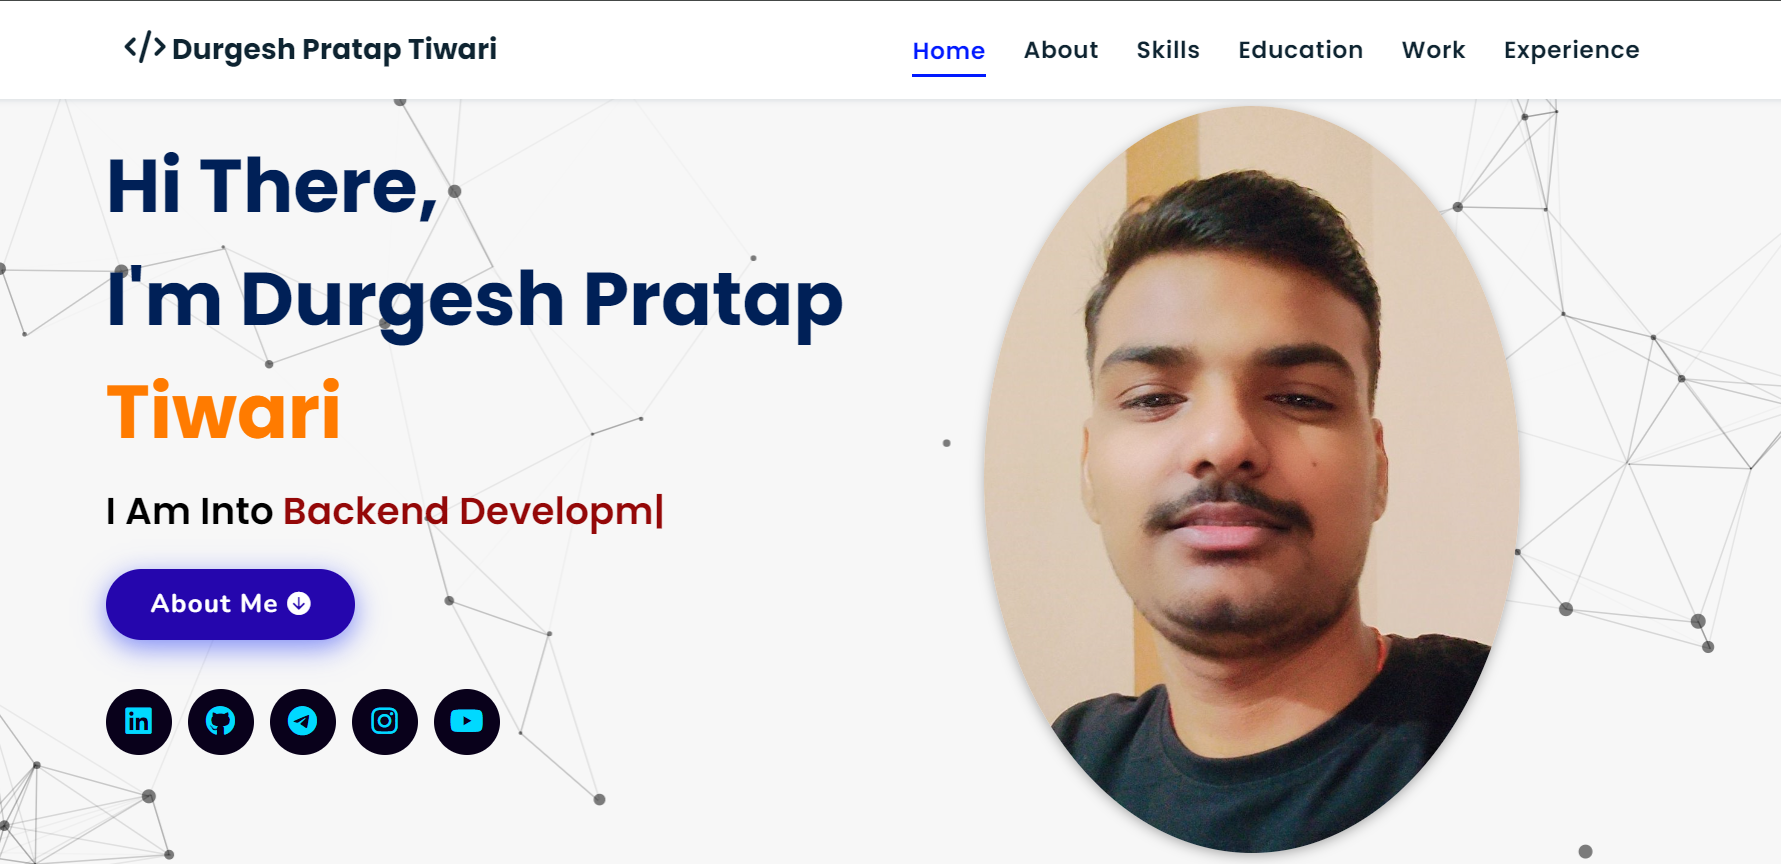
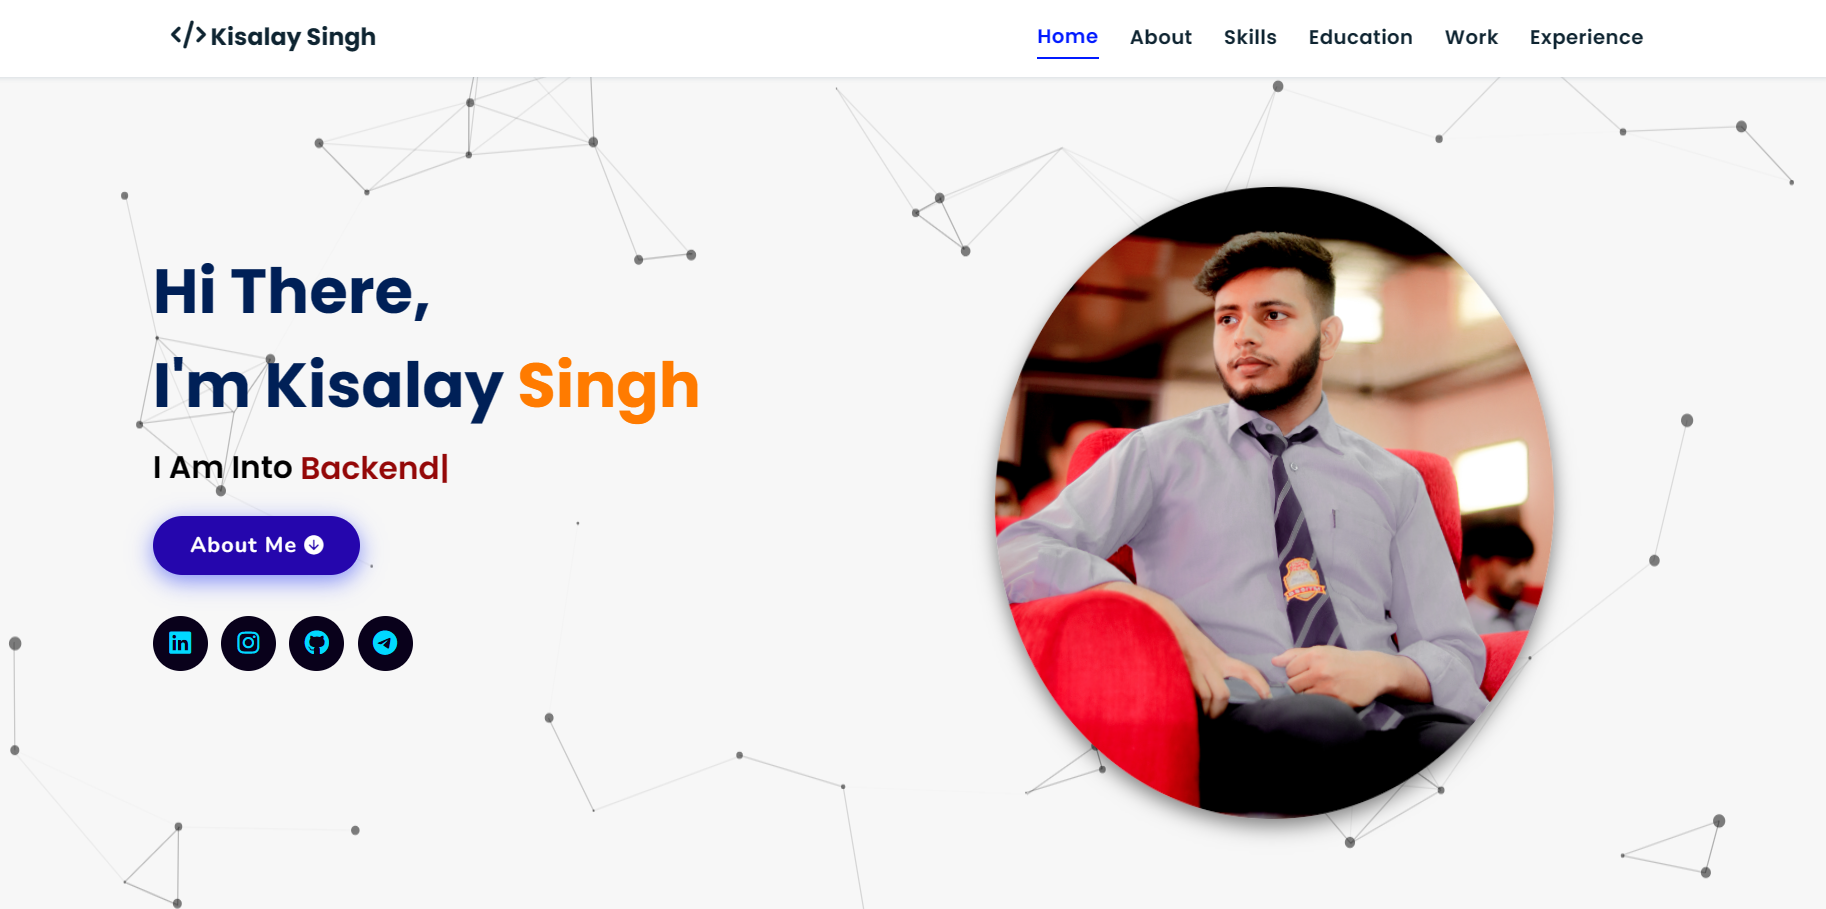
complete all sections

diff --git a/index.html b/index.html
@@ -4,8 +4,8 @@
   <meta charset="UTF-8">
   <meta http-equiv="X-UA-Compatible" content="IE=edge">
   <meta name="viewport" content="width=device-width, initial-scale=1.0">
-  <meta name="keywords" content="Durgesh, portfolio, Durgesh, full stack dev, personal portfolio lifecodes, portfolio design, portfolio website, personal portfolio" />
-  <meta name="description" content="Welcome to Durgseh's Portfolio. Full-Stack Web Developer " />
+  <meta name="keywords" content="Kisalay, portfolio, Kisalay, full stack dev, personal portfolio lifecodes, portfolio design, portfolio website, personal portfolio" />
+  <meta name="description" content="Welcome to Kisalay's Portfolio. Full-Stack Web Developer " />
   <!-- Custom CSS -->
   <link rel="stylesheet" href="./style.css">
   <!-- Font Awesome -->
@@ -16,7 +16,7 @@
 </head>
 <body>
   <header>
-    <a href="/" class="logo"><i class="fa-solid fa-code"></i> Durgesh Pratap Tiwari</a>
+    <a href="/" class="logo"><i class="fa-solid fa-code"></i> Kisalay Singh</a>
 
     <div id="menu" class="fas fa-bars"></div>
     <nav class="navbar">
@@ -37,22 +37,22 @@
   <div id="particles-js"></div>
 
   <div class="content">
-  <h2>Hi There,<br/> I'm Durgesh Pratap <span>Tiwari</span></h2>
+  <h2>Hi There,<br/> I'm Kisalay <span>Singh</span></h2>
   <p>i am into <span class="typing-text"></span></p>
   <a href="#about" class="btn"><span>About Me</span>
     <i class="fas fa-arrow-circle-down"></i>
   </a>
   <div class="socials">
       <ul class="social-icons">
-        <li><a class="linkedin" aria-label="LinkedIn" href="https://www.linkedin.com/in/durgesh-pratap-tiwari-3b97a0210/" target="_blank"><i class="fab fa-linkedin"></i></a></li> 
-        <li><a class="instagram" aria-label="Instagram" href="https://www.instagram.com/durgeshtripathi245/"><i class="fab fa-instagram" target="_blank"></i></a></li>
-        <li><a class="github" aria-label="GitHub" href="https://github.com/durgeshtiwar" target="_blank"><i class="fab fa-github"></i></a></li>
+        <li><a class="linkedin" aria-label="LinkedIn" href="https://www.linkedin.com/in/kisalay-singh-a5b470296/" target="_blank"><i class="fab fa-linkedin"></i></a></li> 
+        <li><a class="instagram" aria-label="Instagram" href="https://www.instagram.com/kisalay_rajput/"><i class="fab fa-instagram" target="_blank"></i></a></li>
+        <li><a class="github" aria-label="GitHub" href="https://github.com/Kisalay-Singh" target="_blank"><i class="fab fa-github"></i></a></li>
         <li><a class="telegram" aria-label="Telegram" href="#" target="_blank"><i class="fab fa-telegram-plane"></i></a></li>
       </ul>
     </div>
   </div>
 <div class="image">
-  <img draggable="false" class="tilt" src="./assets/images/Profile.jpg" alt="" height="">
+  <img draggable="false" class="tilt" src="assets/images/IMG_20220705_221514_185.jpg" alt="" height="">
 </div>
 </section>
 <!-- hero section ends -->
@@ -65,14 +65,14 @@
   <div class="row">
 
   <div class="image">
-      <img draggable="false" class="tilt" src="./assets/images/About.jpg" alt="">
+      <img draggable="false" class="tilt" src="assets/images/1000117485.jpg" alt="">
   </div>
   <div class="content">
-      <h3>I'm Durgesh</h3>
+      <h3>I'm Kisalay</h3>
       <span class="tag">Full Stack Web Developer</span>
       
       <p>I am a Full-Stack developer. 
-        I am Pursuing my BTech in Computer Science and Engineering from Babu Sunder Singh Institute Of Technology and Management, Lucknow, Uttar Pradesh.
+        I am Pursuing my BTech in Civil Engineering from Babu Sunder Singh Institute Of Technology and Management, Lucknow, Uttar Pradesh.
         I am very passionate about improving my coding skills & developing applications & websites.
         I build WebApps and Websites using MERN Stack.
         Working for myself to improve my skills.
@@ -81,16 +81,16 @@
       <div class="box-container">
           <div class="box">
             <p><span> age: </span> 20</p>
-            <p><span> phone : </span> +91 9026736093</p>
+            <p><span> phone : </span> +91 9335611409</p>
           <!-- </div>
           <div class="box"> -->
-            <p><span> email : </span> durgeshtiwari362592@gmail.com</p>
-            <p><span> place : </span> Ayodhya(Faizabad), Uttar Pradesh, India</p>
+            <p><span> email : </span> amansinghkisalay0852@gmail.com</p>
+            <p><span> place : </span> Azamgarh(Aryangarh), Uttar Pradesh, India</p>
           </div>
       </div>
       
       <div class="resumebtn">
-          <a href="https://drive.google.com/file/d/1QOuOZL5zqIgK0lh9W_R9HTCaOMMEG5r2/view?usp=sharing" target="_blank" class="btn"><span>Resume</span>
+          <a href="https://drive.google.com/file/d/1oTglssryabK-FLauz6J0LLr0e3ObGaTM/view?usp=sharing" target="_blank" class="btn"><span>Resume</span>
               <i class="fas fa-chevron-right"></i>
           </a>
       </div>
@@ -148,12 +148,6 @@
           </div> -->
           <div class="bar">
             <div class="info">
-              <img src="./assets/images/skills/bootstrap.png" height="50" width="50">
-              <span>Bootstrap</span>
-            </div>
-          </div>
-          <div class="bar">
-            <div class="info">
               <img src="./assets/images/skills/python.png" height="50" width="50">
               <span>Python</span>
             </div>
@@ -170,12 +164,6 @@
               <span>Firebase</span>
             </div>
           </div>
-          <div class="bar">
-            <div class="info">
-              <img src="./assets/images/skills/nodejs.png" height="50" width="50">
-              <span>NodeJS</span>
-            </div>
-          </div>
           <!-- <div class="bar">
             <div class="info">
               <img src="./assets/images/skills/aws.png" height="50" width="50">
@@ -186,18 +174,6 @@
             <div class="info">
               <img src="./assets/images/skills/sql.png" height="50" width="50">
               <span>SQL</span>
-            </div>
-          </div>
-          <div class="bar">
-            <div class="info">
-              <img src="./assets/images/skills/mongodb.png" height="50" width="50">
-              <span>MongoDB</span>
-            </div>
-          </div>
-          <div class="bar">
-            <div class="info">
-              <img src="./assets/images/skills/php.png" height="50" width="50">
-              <span>PHP</span>
             </div>
           </div>
           <!-- <div class="bar">
@@ -274,7 +250,7 @@
         <img draggable="false" src="./assets/images/educate/College.jfif" alt="">
         </div>
         <div class="content">
-        <h3>BTech in Computer Science and Engineering</h3>
+        <h3>BTech in Civil Engineering</h3>
         <p>Babu Sunder Singh Institute of Technology and Management | Lucknow, Uttar Pradesh</p>
         <h4>2020-2024 | Pursuing</h4>
         </div>
@@ -306,7 +282,7 @@
       </div>
     </div>
     <div class="box tilt">
-      <img draggable="false" src="./assets/images/Projects/amazon.png" alt="" />
+      <img draggable="false" src="assets/images/amazon .png" alt="" />
       <div class="content">
         <div class="tag">
         <h3>Amazon Clone Website Using ReactJS</h3>
@@ -320,7 +296,7 @@
         </div>
       </div>
     </div>
-    <div class="box tilt">
+    <!-- <div class="box tilt">
       <img draggable="false" src="./assets/images/Projects/todo.png" alt="" />
       <div class="content">
         <div class="tag">
@@ -334,10 +310,10 @@
           </div>
         </div>
       </div>
-    </div>
-    <div class="box tilt">
+    </div> -->
+    <!-- <div class="box tilt"> -->
       <!-- <img draggable="false" src="./assets/images/projects/Real.png" alt="" /> -->
-      <div class="content">
+      <!-- <div class="content">
         <div class="tag">
         <h3>Real-Estate Website </h3>
         </div>
@@ -348,10 +324,10 @@
             <a href="https://github.com/durgeshtiwar/Ayodhya-real-estate" class="btn" target="_blank">Code <i class="fas fa-code"></i></a>
           </div>
         </div>
-      </div>
-    </div>
+      </div> -->
+    <!-- </div> -->
     <div class="box tilt">
-      <!-- <img draggable="false" src="./assets/images/projects/PW.png" alt="" /> -->
+      <img draggable="false" src="./assets/images/projects/PW.png" alt="" />
       <div class="content">
         <div class="tag">
         <h3>PW CLone</h3>
@@ -433,7 +409,7 @@
   <div class="box-container">
 
       <div class="box">
-          <h3>Durgesh's Portfolio</h3>
+          <h3>Kisalay Portfolio</h3>
           <p>Thank you for visiting my personal portfolio website. Connect with me over socials. <br/> <br/> Keep Rising 🚀. Connect with me over live chat!</p>
       </div>
 
@@ -449,18 +425,18 @@
 
       <div class="box">
           <h3>contact info</h3>
-          <p> <i class="fas fa-phone"></i>+91 9026736093</p>
-          <p> <i class="fas fa-envelope"></i>durgeshtiwari362592@gmail.com</p>
-          <p> <i class="fas fa-map-marked-alt"></i>Ayodhya(Faizabad), India</p>
+          <p> <i class="fas fa-phone"></i>+91 9335611409</p>
+          <p> <i class="fas fa-envelope"></i>amansinghkisalay0852@gmail.com</p>
+          <p> <i class="fas fa-map-marked-alt"></i>Azamgarh (Aryangarh), India</p>
           <div class="share">
-              <a href="https://www.linkedin.com/in/durgesh-pratap-tiwari-3b97a0210/" class="fab fa-linkedin" aria-label="LinkedIn" target="_blank"></a>
-              <a href="https://github.com/durgeshtiwar" class="fab fa-github" aria-label="GitHub" target="_blank"></a>
-              <a href="mailto:durgeshtiwari362592@gmail.com" class="fas fa-envelope" aria-label="Mail" target="_blank"></a>
+              <a href="https://www.linkedin.com/in/kisalay-singh-a5b470296/" class="fab fa-linkedin" aria-label="LinkedIn" target="_blank"></a>
+              <a href="https://github.com/Kisalay-Singh" class="fab fa-github" aria-label="GitHub" target="_blank"></a>
+              <a href="mailto:amansinghkisalay0852@gmail.com" class="fas fa-envelope" aria-label="Mail" target="_blank"></a>
               <a href="#" class="fab fa-telegram-plane" aria-label="Telegram" target="_blank"></a>
       </div>
   </div>
 
-  <h1 class="credit">Designed <i class=""></i> by <a href="https://www.linkedin.com/in/imps1001"> Durgesh Pratap Tiwari</a></h1>
+  <h1 class="credit">Designed <i class=""></i> by - <a href="https://www.linkedin.com/in/kisalay-singh-a5b470296/"> Kisalay Singh</a></h1>
 
 </section>
 <!-- footer section ends -->

diff --git a/style.css b/style.css
@@ -173,8 +173,8 @@ header {
     z-index: 1;
   }
   .home .image img {
-    width: 70%;
-    height: 80%;
+    width: 75%;
+    height: 70%;
     margin-top: 5rem;
     margin-left: 6rem;
     border-radius: 50%;
@@ -1100,9 +1100,9 @@ form .button-area {
 .footer .credit {
   padding: 1rem 0 0 0;
   text-align: center;
-  font-size: 1.5rem;
+  font-size: 2.5rem;
   font-family: "Nunito", sans-serif;
-  font-weight: 600;
+  font-weight: 800;
   color: #fff;
   border-top: 0.1rem solid #fff3;
 }

diff --git a/assets/js/script.js b/assets/js/script.js
@@ -59,7 +59,7 @@ $(document).ready(function () {
 document.addEventListener('visibilitychange',
     function () {
         if (document.visibilityState === "visible") {
-            document.title = "Portfolio | Durgesh Pratap Tiwari";
+            document.title = "Portfolio | Kisalay Singh";
             $("#favicon").attr("href", "assets/images/favicon.png");
         }
         else {
